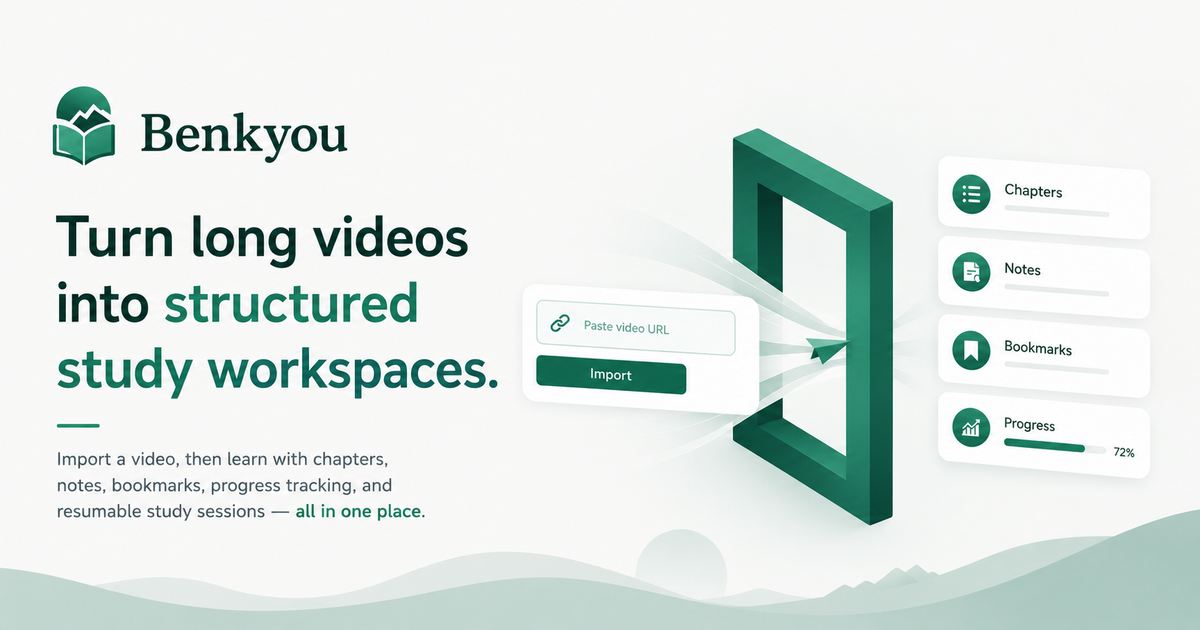
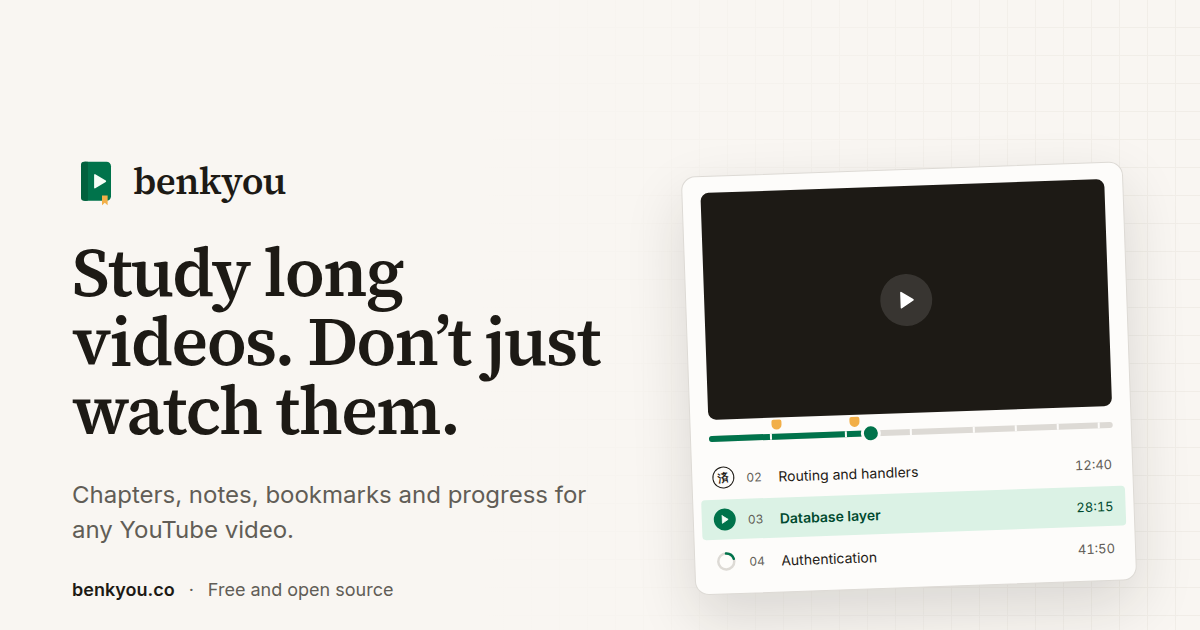
feat(brand): new notebook-and-ribbon mark
- Add BrandMark (inline SVG, theme-token colours) to packages/ui
- Use it in BrandLogo with a lowercase serif wordmark
- Replace favicon, app icons, lockup PNGs, social card and README banner
- Add favicon.svg, apple-touch-icon, maskable icon, outlined SVG lockups
- Update theme colour, manifest and default SEO copy

diff --git a/apps/web/src/lib/seo.ts b/apps/web/src/lib/seo.ts
@@ -1,11 +1,11 @@
 import { PRODUCT_NAME } from "@benkyou/core";
 
 const DEFAULT_SITE_URL = "http://localhost:3000";
-const DEFAULT_TITLE = "Benkyou | Focused study workspaces for long videos";
+const DEFAULT_TITLE = "Benkyou | Study notebooks for long videos";
 const DEFAULT_DESCRIPTION =
-	"Study tutorials, lectures, talks, and walkthroughs with chapters, notes, bookmarks, and progress in one recoverable workspace.";
+	"Turn long YouTube tutorials, lectures and talks into study notebooks with chapters, notes, bookmarks and progress.";
 const DEFAULT_IMAGE_PATH = "/social-card.png";
-const DEFAULT_THEME_COLOR = "#00694c";
+const DEFAULT_THEME_COLOR = "#00734b";
 
 type SeoIndexing = "index" | "noindex";
 type JsonLdPrimitive = boolean | number | string | null;
@@ -73,7 +73,10 @@ export function buildSeoHead(options: SeoOptions = {}) {
 			{ property: "og:description", content: description },
 			{ property: "og:url", content: canonicalUrl },
 			{ property: "og:image", content: imageUrl },
-			{ property: "og:image:alt", content: `${PRODUCT_NAME} study workspace` },
+			{
+				property: "og:image:alt",
+				content: `${PRODUCT_NAME}: study long videos, don’t just watch them`,
+			},
 			{ name: "twitter:card", content: "summary_large_image" },
 			{ name: "twitter:title", content: title },
 			{ name: "twitter:description", content: description },
@@ -85,7 +88,8 @@ export function buildSeoHead(options: SeoOptions = {}) {
 				: [{ rel: "canonical", href: canonicalUrl }]),
 			{ rel: "manifest", href: "/manifest.json" },
 			{ rel: "icon", href: "/favicon.ico", sizes: "any" },
-			{ rel: "apple-touch-icon", href: "/logo192.png" },
+			{ rel: "icon", href: "/favicon.svg", type: "image/svg+xml" },
+			{ rel: "apple-touch-icon", href: "/apple-touch-icon.png" },
 		],
 		scripts: (options.jsonLd ?? []).map((jsonLd) => ({
 			type: "application/ld+json",

diff --git a/packages/ui/src/components/brand-mark.tsx b/packages/ui/src/components/brand-mark.tsx
@@ -1,0 +1,53 @@
+import type * as React from "react";
+
+import { cn } from "#lib/utils";
+
+/**
+ * The Benkyou mark: a notebook with a play button and an amber bookmark
+ * ribbon. Colors come from theme tokens, so it follows light and dark mode.
+ * Drawn on a 64×64 grid; keep the ribbon visible at every size.
+ */
+function BrandMark({
+	className,
+	title,
+	...props
+}: React.ComponentProps<"svg"> & { title?: string }) {
+	return (
+		<svg
+			viewBox="0 0 64 64"
+			role={title ? "img" : undefined}
+			aria-hidden={title ? undefined : true}
+			aria-label={title}
+			className={cn("size-8 shrink-0", className)}
+			{...props}
+		>
+			<rect
+				x="12"
+				y="5"
+				width="40"
+				height="52"
+				rx="6"
+				style={{ fill: "var(--primary)" }}
+			/>
+			<path
+				d="M18 5h3v52h-3a6 6 0 0 1-6-6V11a6 6 0 0 1 6-6z"
+				style={{ fill: "color-mix(in oklch, var(--primary) 82%, black)" }}
+			/>
+			<path
+				d="M30.5 22.5v17L44.5 31z"
+				strokeWidth="2"
+				strokeLinejoin="round"
+				style={{
+					fill: "var(--primary-foreground)",
+					stroke: "var(--primary-foreground)",
+				}}
+			/>
+			<path
+				d="M40 50v13l3.75-3.5L47.5 63V50z"
+				style={{ fill: "var(--mark)" }}
+			/>
+		</svg>
+	);
+}
+
+export { BrandMark };

diff --git a/apps/web/src/components/brand-logo.tsx b/apps/web/src/components/brand-logo.tsx
@@ -1,5 +1,5 @@
 import { PRODUCT_NAME } from "@benkyou/core";
-import { cn } from "@benkyou/ui";
+import { BrandMark, cn } from "@benkyou/ui";
 import { Link } from "@tanstack/react-router";
 import type { MouseEventHandler, ReactNode } from "react";
 
@@ -14,22 +14,19 @@ type BrandLogoProps = {
 function BrandLogo({
 	className,
 	onClick,
-	subtitle = "Learning workspace",
+	subtitle = "Study notebooks",
 	showText = true,
 	to,
 }: BrandLogoProps) {
 	const content = (
 		<>
-			<div className="flex size-10 shrink-0 items-center justify-center">
-				<img
-					src="/logo.png"
-					alt={showText ? "" : `${PRODUCT_NAME} logo`}
-					className="block size-full object-contain"
-				/>
-			</div>
+			<BrandMark
+				className="size-9"
+				title={showText ? undefined : `${PRODUCT_NAME} logo`}
+			/>
 			{showText ? (
 				<span className="min-w-0 group-data-[collapsible=icon]:hidden">
-					<span className="block truncate font-semibold text-[15px] text-current leading-5 tracking-normal">
+					<span className="block truncate font-semibold font-serif text-[19px] text-current lowercase leading-6 tracking-[-0.015em]">
 						{PRODUCT_NAME}
 					</span>
 					{subtitle ? (

diff --git a/packages/ui/src/index.ts b/packages/ui/src/index.ts
@@ -1,5 +1,6 @@
 export * from "./components/app-shell";
 export * from "./components/badge";
+export * from "./components/brand-mark";
 export * from "./components/button";
 export * from "./components/card";
 export * from "./components/dialog";
